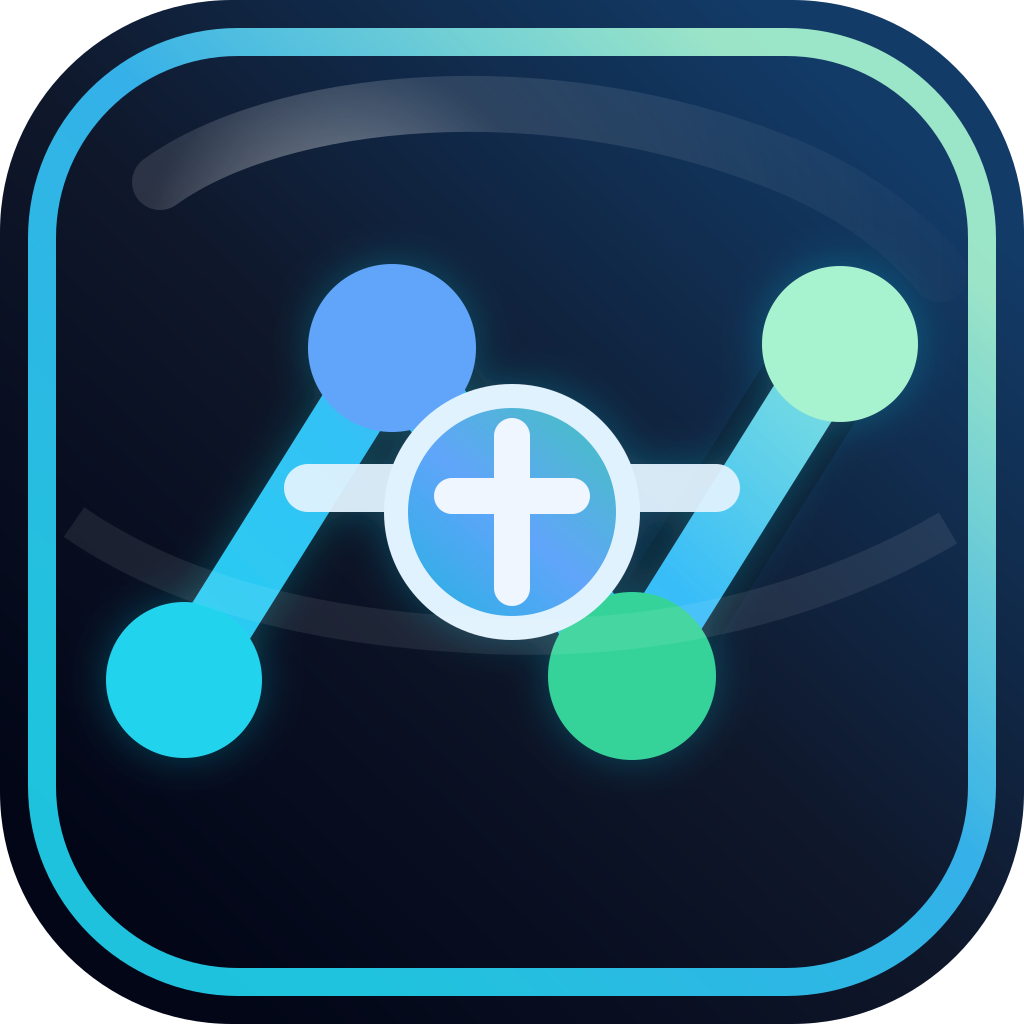
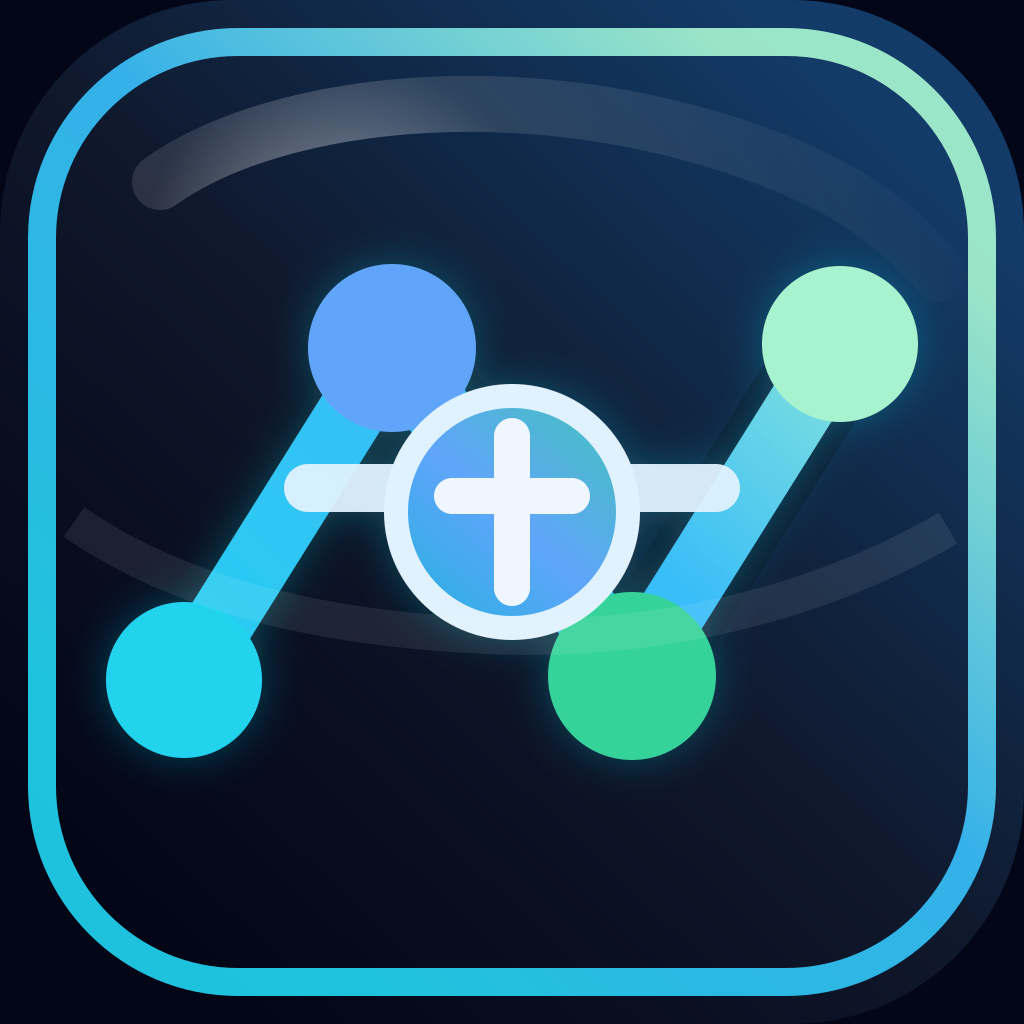
fix: harden store release account cleanup

diff --git a/apps/web/src/lib/billing/stripe-pure.test.ts b/apps/web/src/lib/billing/stripe-pure.test.ts
@@ -10,7 +10,7 @@ import {
   STRIPE_PROVIDER_TIMEOUT_MS,
 } from './stripe';
 
-test('account deletion cancels only Girapphe Stripe subscriptions', async (context) => {
+test('account deletion cancels current and retired Girapphe Stripe subscriptions', async (context) => {
   const originalQuery = db.query;
   const originalFetch = globalThis.fetch;
   const previous = new Map([
@@ -28,7 +28,15 @@ test('account deletion cancels only Girapphe Stripe subscriptions', async (conte
   process.env.STRIPE_SECRET_KEY = 'sk_test_account_deletion';
   process.env.STRIPE_PRICE_AD_FREE_MONTHLY = 'price_girapphe_monthly';
   process.env.STRIPE_PRICE_AD_FREE_ANNUAL = 'price_girapphe_annual';
-  db.query = (async () => ({ rows: [{ stripe_customer_id: 'cus_delete' }] })) as typeof db.query;
+  db.query = (async (text: string) => {
+    if (text.includes('SELECT stripe_customer_id')) {
+      return { rows: [{ stripe_customer_id: 'cus_delete' }] };
+    }
+    if (text.includes('FROM billing_subscriptions')) {
+      return { rows: [{ provider_subscription_id: 'sub_retired' }] };
+    }
+    return { rows: [] };
+  }) as typeof db.query;
 
   const requests: Array<{ url: string; method: string }> = [];
   globalThis.fetch = (async (input, init) => {
@@ -38,6 +46,13 @@ test('account deletion cancels only Girapphe Stripe subscriptions', async (conte
       return Response.json({
         data: [
           { id: 'sub_girapphe', status: 'active', items: { data: [{ price: { id: 'price_girapphe_monthly' } }] } },
+          { id: 'sub_retired', status: 'past_due', items: { data: [{ price: { id: 'price_retired' } }] } },
+          {
+            id: 'sub_metadata',
+            status: 'trialing',
+            metadata: { user_id: 'user_delete', entitlement: 'ad_free' },
+            items: { data: [{ price: { id: 'price_rotated' } }] },
+          },
           { id: 'sub_other', status: 'active', items: { data: [{ price: { id: 'price_other' } }] } },
           { id: 'sub_old', status: 'canceled', items: { data: [{ price: { id: 'price_girapphe_annual' } }] } },
         ],
@@ -46,9 +61,13 @@ test('account deletion cancels only Girapphe Stripe subscriptions', async (conte
     return Response.json({ id: 'sub_girapphe', status: 'canceled' });
   }) as typeof fetch;
 
-  assert.equal(await cancelStripeSubscriptionsForAccountDeletion('user_delete'), 1);
-  assert.equal(requests.filter(({ method }) => method === 'DELETE').length, 1);
-  assert.match(requests.find(({ method }) => method === 'DELETE')?.url ?? '', /subscriptions\/sub_girapphe$/);
+  assert.equal(await cancelStripeSubscriptionsForAccountDeletion('user_delete'), 3);
+  const deletedUrls = requests.filter(({ method }) => method === 'DELETE').map(({ url }) => url);
+  assert.equal(deletedUrls.length, 3);
+  assert.ok(deletedUrls.some((url) => /subscriptions\/sub_girapphe$/.test(url)));
+  assert.ok(deletedUrls.some((url) => /subscriptions\/sub_retired$/.test(url)));
+  assert.ok(deletedUrls.some((url) => /subscriptions\/sub_metadata$/.test(url)));
+  assert.ok(deletedUrls.every((url) => !/subscriptions\/sub_other$/.test(url)));
 });
 
 const STRIPE_CONFIGURATION_KEYS = [

diff --git a/apps/web/src/lib/billing/stripe.ts b/apps/web/src/lib/billing/stripe.ts
@@ -7,6 +7,7 @@ import {
   findUserIdByStripeCustomer,
   hasBlockingSubscription,
   getStripeCustomerId,
+  getStripeSubscriptionIds,
   releaseTrialClaim,
   releaseWebhookEvent,
   saveStripeCustomer,
@@ -366,6 +367,7 @@ export async function cancelStripeSubscriptionsForAccountDeletion(userId: string
   const monthlyPriceId = requiredSecret('STRIPE_PRICE_AD_FREE_MONTHLY');
   const annualPriceId = requiredSecret('STRIPE_PRICE_AD_FREE_ANNUAL');
   const appPriceIds = new Set([monthlyPriceId, annualPriceId]);
+  const storedSubscriptionIds = await getStripeSubscriptionIds(userId);
   const subscriptions = await stripeGet<JsonObject>('subscriptions', new URLSearchParams({
     customer: customerId,
     status: 'all',
@@ -377,11 +379,23 @@ export async function cancelStripeSubscriptionsForAccountDeletion(userId: string
     if (!isObject(candidate)) return false;
     const id = stringValue(candidate.id);
     const status = stringValue(candidate.status);
+    const metadata = metadataOf(candidate.metadata);
+    const isOwnedGirappheSubscription = Boolean(
+      id
+      && (
+        storedSubscriptionIds.has(id)
+        || (
+          metadata.user_id === userId
+          && metadata.entitlement === AD_FREE_ENTITLEMENT
+        )
+        || appPriceIds.has(subscriptionPriceId(candidate) ?? '')
+      )
+    );
     return Boolean(
       id
       && status
       && !['canceled', 'incomplete_expired'].includes(status)
-      && appPriceIds.has(subscriptionPriceId(candidate) ?? ''),
+      && isOwnedGirappheSubscription,
     );
   });
 

diff --git a/apps/mobile/scripts/check-release-config.ts b/apps/mobile/scripts/check-release-config.ts
@@ -29,7 +29,12 @@ function pngSize(relativePath: string) {
   assert.ok(existsSync(path), `${relativePath} must exist.`);
   const bytes = readFileSync(path);
   assert.equal(bytes.subarray(1, 4).toString('ascii'), 'PNG', `${relativePath} must be a PNG.`);
-  return { width: bytes.readUInt32BE(16), height: bytes.readUInt32BE(20) };
+  const colorType = bytes.readUInt8(25);
+  return {
+    width: bytes.readUInt32BE(16),
+    height: bytes.readUInt32BE(20),
+    hasAlphaChannel: colorType === 4 || colorType === 6,
+  };
 }
 
 function withProductionEnvironment<T>(operation: () => T): T {
@@ -70,8 +75,15 @@ assert.equal(appJson.expo.slug, 'girapphe');
 assert.equal(appJson.expo.scheme, 'girapphe');
 assert.equal(appJson.expo.ios?.bundleIdentifier, 'com.girapphe.app');
 assert.equal(appJson.expo.android?.package, 'com.girapphe.app');
-assert.deepEqual(pngSize(appJson.expo.icon ?? ''), { width: 1024, height: 1024 });
-assert.deepEqual(pngSize(appJson.expo.android?.adaptiveIcon?.foregroundImage ?? ''), { width: 1024, height: 1024 });
+assert.deepEqual(
+  pngSize(appJson.expo.icon ?? ''),
+  { width: 1024, height: 1024, hasAlphaChannel: false },
+  'The iOS app icon must be a 1024x1024 PNG without an alpha channel.',
+);
+assert.deepEqual(
+  pngSize(appJson.expo.android?.adaptiveIcon?.foregroundImage ?? ''),
+  { width: 1024, height: 1024, hasAlphaChannel: true },
+);
 const splashPlugin = appJson.expo.plugins?.find(
   (plugin): plugin is [string, Record<string, unknown>] => Array.isArray(plugin) && plugin[0] === 'expo-splash-screen',
 );

diff --git a/apps/web/src/lib/billing/database.ts b/apps/web/src/lib/billing/database.ts
@@ -153,6 +153,19 @@ export async function getStripeCustomerId(userId: string): Promise<string | null
   return result.rows[0]?.stripe_customer_id ?? null;
 }
 
+export async function getStripeSubscriptionIds(userId: string): Promise<Set<string>> {
+  if (!databaseAvailable()) return new Set();
+  const result = await pool.query<{ provider_subscription_id: string }>(
+    `SELECT provider_subscription_id
+     FROM billing_subscriptions
+     WHERE user_id = $1
+       AND provider = 'stripe'
+       AND entitlement = $2`,
+    [userId, AD_FREE_ENTITLEMENT],
+  );
+  return new Set(result.rows.map((row) => row.provider_subscription_id));
+}
+
 export async function claimStripePortalRateSlot(userId: string): Promise<boolean> {
   const result = await pool.query<{ user_id: string }>(
     `UPDATE billing_customers

diff --git a/apps/web/src/lib/billing/revenuecat-pure.test.ts b/apps/web/src/lib/billing/revenuecat-pure.test.ts
@@ -36,6 +36,20 @@ test('deletes RevenueCat customer data with the server-side secret key', async (
   assert.ok(requests[0]?.init?.signal);
 });
 
+test('fails closed when RevenueCat customer deletion is not configured', async (context) => {
+  const previousKey = process.env.REVENUECAT_SECRET_API_KEY;
+  context.after(() => {
+    if (previousKey === undefined) delete process.env.REVENUECAT_SECRET_API_KEY;
+    else process.env.REVENUECAT_SECRET_API_KEY = previousKey;
+  });
+  delete process.env.REVENUECAT_SECRET_API_KEY;
+
+  await assert.rejects(
+    deleteRevenueCatCustomer('user_delete'),
+    /REVENUECAT_SECRET_API_KEY is not configured/,
+  );
+});
+
 function revenueCatEvent(
   type: string,
   payload: Record<string, unknown> = {},

diff --git a/apps/web/src/lib/billing/account-deletion-source.test.ts b/apps/web/src/lib/billing/account-deletion-source.test.ts
@@ -26,5 +26,6 @@ test('account deletion covers every owner-scoped private product table', () => {
   assert.match(source, /cancelStripeSubscriptionsForAccountDeletion/);
   assert.match(source, /cancelTossBilling/);
   assert.match(source, /deleteRevenueCatCustomer/);
+  assert.doesNotMatch(source, /REVENUECAT_SECRET_API_KEY[^\n]*return false/);
   assert.match(source, /client\.users\.deleteUser\(userId\)/);
 });

diff --git a/apps/web/src/lib/billing/revenuecat.ts b/apps/web/src/lib/billing/revenuecat.ts
@@ -17,7 +17,7 @@ export async function deleteRevenueCatCustomer(
   requestTimeoutMs = REVENUECAT_REQUEST_TIMEOUT_MS,
 ): Promise<boolean> {
   const apiKey = process.env.REVENUECAT_SECRET_API_KEY?.trim();
-  if (!apiKey) return false;
+  if (!apiKey) throw new Error('REVENUECAT_SECRET_API_KEY is not configured.');
 
   const controller = new AbortController();
   const timeoutId = setTimeout(

diff --git a/apps/web/src/lib/account-deletion.ts b/apps/web/src/lib/account-deletion.ts
@@ -49,7 +49,6 @@ async function cancelRenewingWebBilling(userId: string) {
 }
 
 async function deleteProcessorCustomerData(userId: string) {
-  if (!process.env.REVENUECAT_SECRET_API_KEY?.trim()) return false;
   try {
     return await deleteRevenueCatCustomer(userId);
   } catch (cause) {
